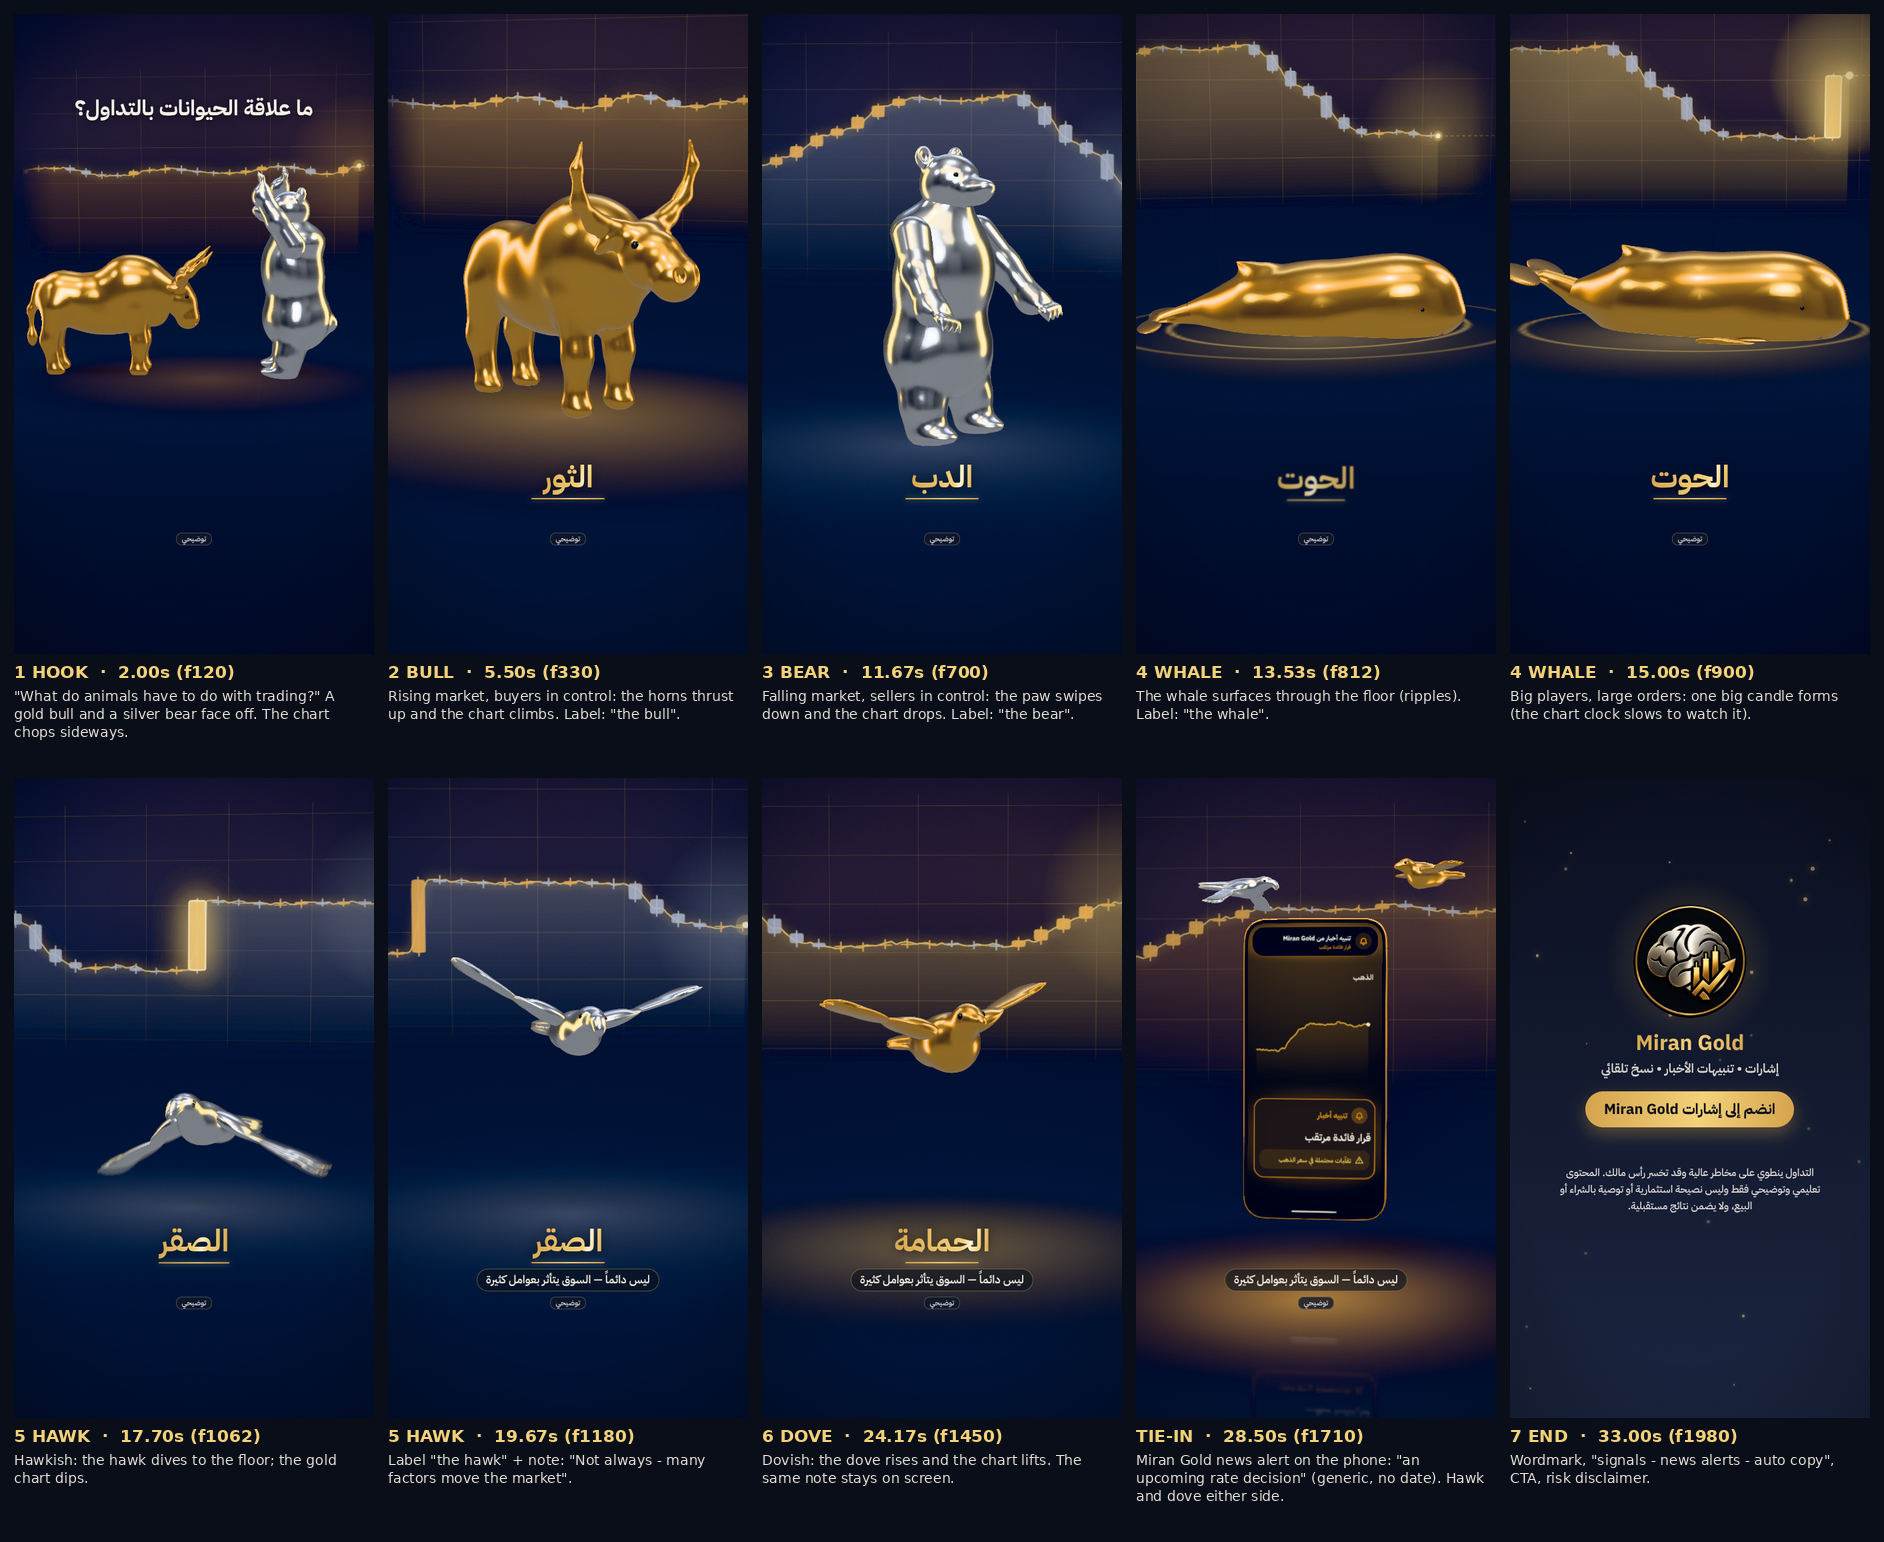
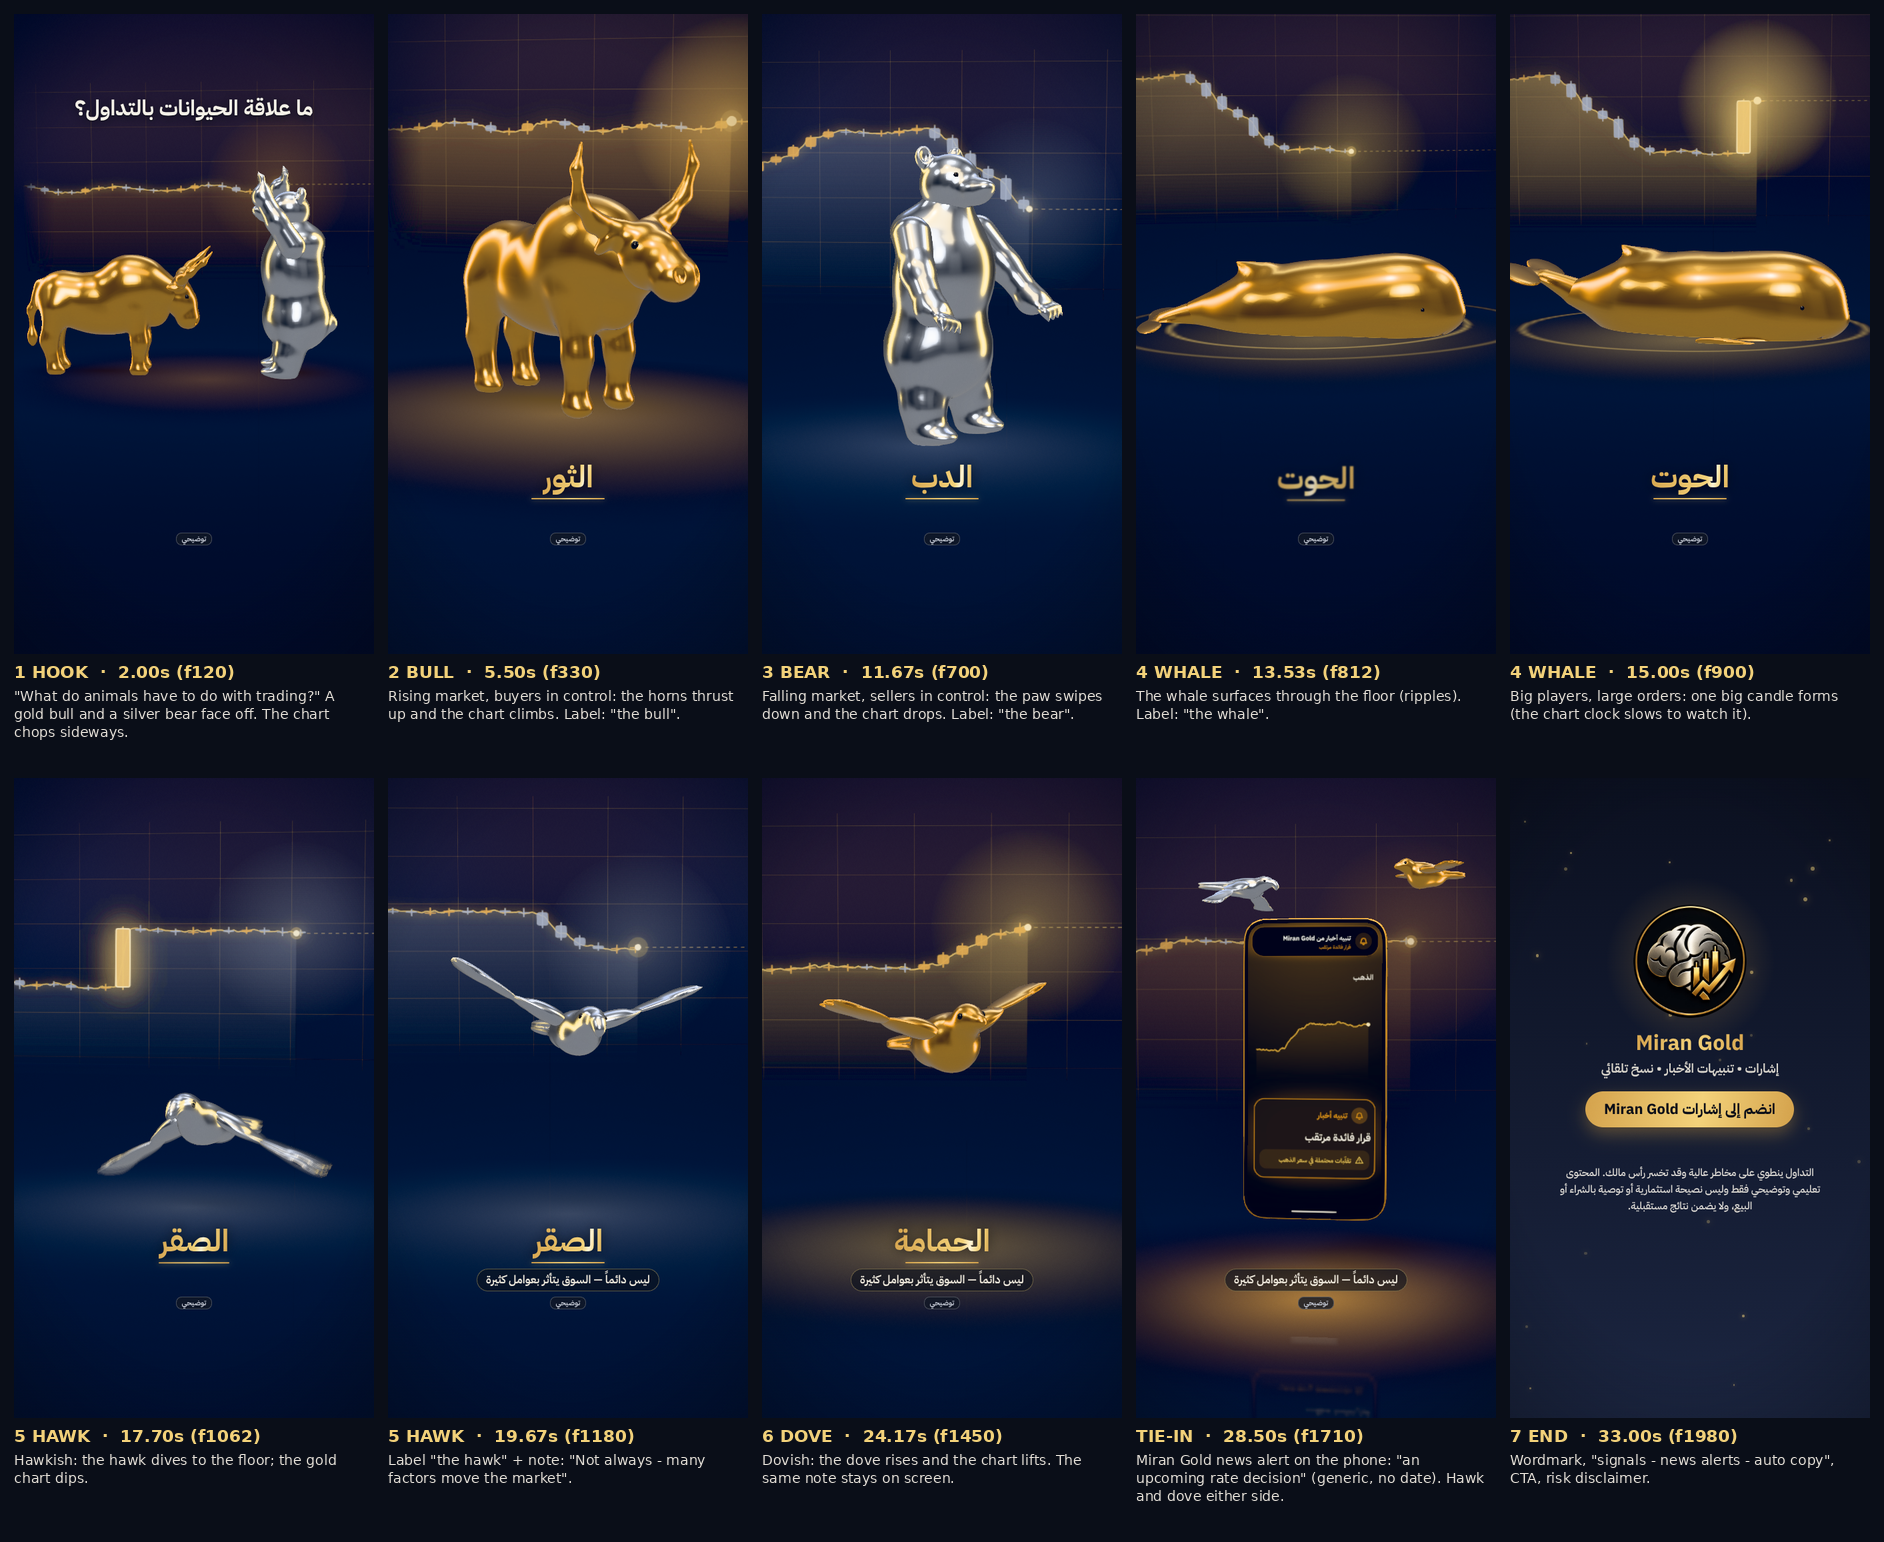
Animals reel: keep the chart's newest candle in frame in the close shots; cover at frame 440
Claude-Session: https://claude.ai/code/session_01ArTNdJzxb7FSqFaBPHCdj9

diff --git a/miran-signals-remotion/src/animals/data.ts b/miran-signals-remotion/src/animals/data.ts
@@ -87,7 +87,7 @@ export const T = {
   /** Everything is still from here to the end (the held last second). */
   holdFrom: 2040,
 
-  coverFrame: 360,
+  coverFrame: 440,
 };
 
 // ─── Copy (Arabic only; the brand is always «Miran Gold» in Latin letters) ────
@@ -222,12 +222,12 @@ export const CHART = {
   noise: 0.007,
   /** Chart frames per candle, and how many candles fit across. */
   candle: 22,
-  candles: 20,
+  candles: 18,
   /** The whale's candle: from → to (one candle), and how many reel frames the chart's clock
    * falls behind while it forms (it slows down, then catches up once the whale is under). */
   whale: {from: 0.315, to: 0.62, slow: 34},
   /** Panel in the studio (world units): centre and size. */
-  panel: {x: 0, y: 1.86, z: -2.6, w: 4.6, h: 2.5},
+  panel: {x: 0, y: 1.7, z: -2.6, w: 4.6, h: 2.5},
 };
 
 // ─── Layout per format ───────────────────────────────────────────────────────

diff --git a/miran-signals-remotion/src/animals/chart.ts b/miran-signals-remotion/src/animals/chart.ts
@@ -15,11 +15,12 @@ export const drawChart = (ctx: CanvasRenderingContext2D, t: number) => {
   ctx.clearRect(0, 0, W, H);
   const {candles, now} = candlesAt(t);
   const C = CHART.candle;
-  const right = W * 0.84;
-  const left = W * 0.04;
+  // The newest candle sits about two thirds across, so it stays in frame in the close shots.
+  const right = W * 0.64;
+  const left = W * 0.02;
   const cw = (right - left) / CHART.candles;
   const xOf = (chartFrame: number) => right - ((now - chartFrame) / C) * cw;
-  const yOf = (v: number) => H * (0.9 - 0.8 * v);
+  const yOf = (v: number) => H * (0.86 - 0.68 * v);
   const tint = tintMix(t);
   const glow = mixHex(tint.a, tint.b, tint.k);
   const pulse = chartPulse(t);

diff --git a/miran-signals-remotion/README-animals.md b/miran-signals-remotion/README-animals.md
@@ -28,7 +28,7 @@ In `deliverables/animals/` (and `out/` after a render):
 | `miran-animals-4x5.mp4` | 4:5 (1080×1350), re-framed for the feed, with the sound effects |
 | `miran-animals-4x5-silent.mp4` | 4:5, muted |
 | `miran-animals-sfx.wav` | The sound effects alone |
-| `miran-animals-cover.png` | 1080×1920 cover (frame 360: the bull's horns up, the chart climbing) |
+| `miran-animals-cover.png` | 1080×1920 cover (frame 440: the bull, horns up, the chart climbing) |
 | `storyboard-animals.png` (project root) | Captioned storyboard of real stills |
 
 Final settings: H.264, CRF 16, yuv420p, preset slow, 60fps. They're passed on the render command in `scripts/render-animals.sh`, not set in `remotion.config.ts`. Each format's picture is rendered once (muted), and the effects WAV is muxed onto it.
